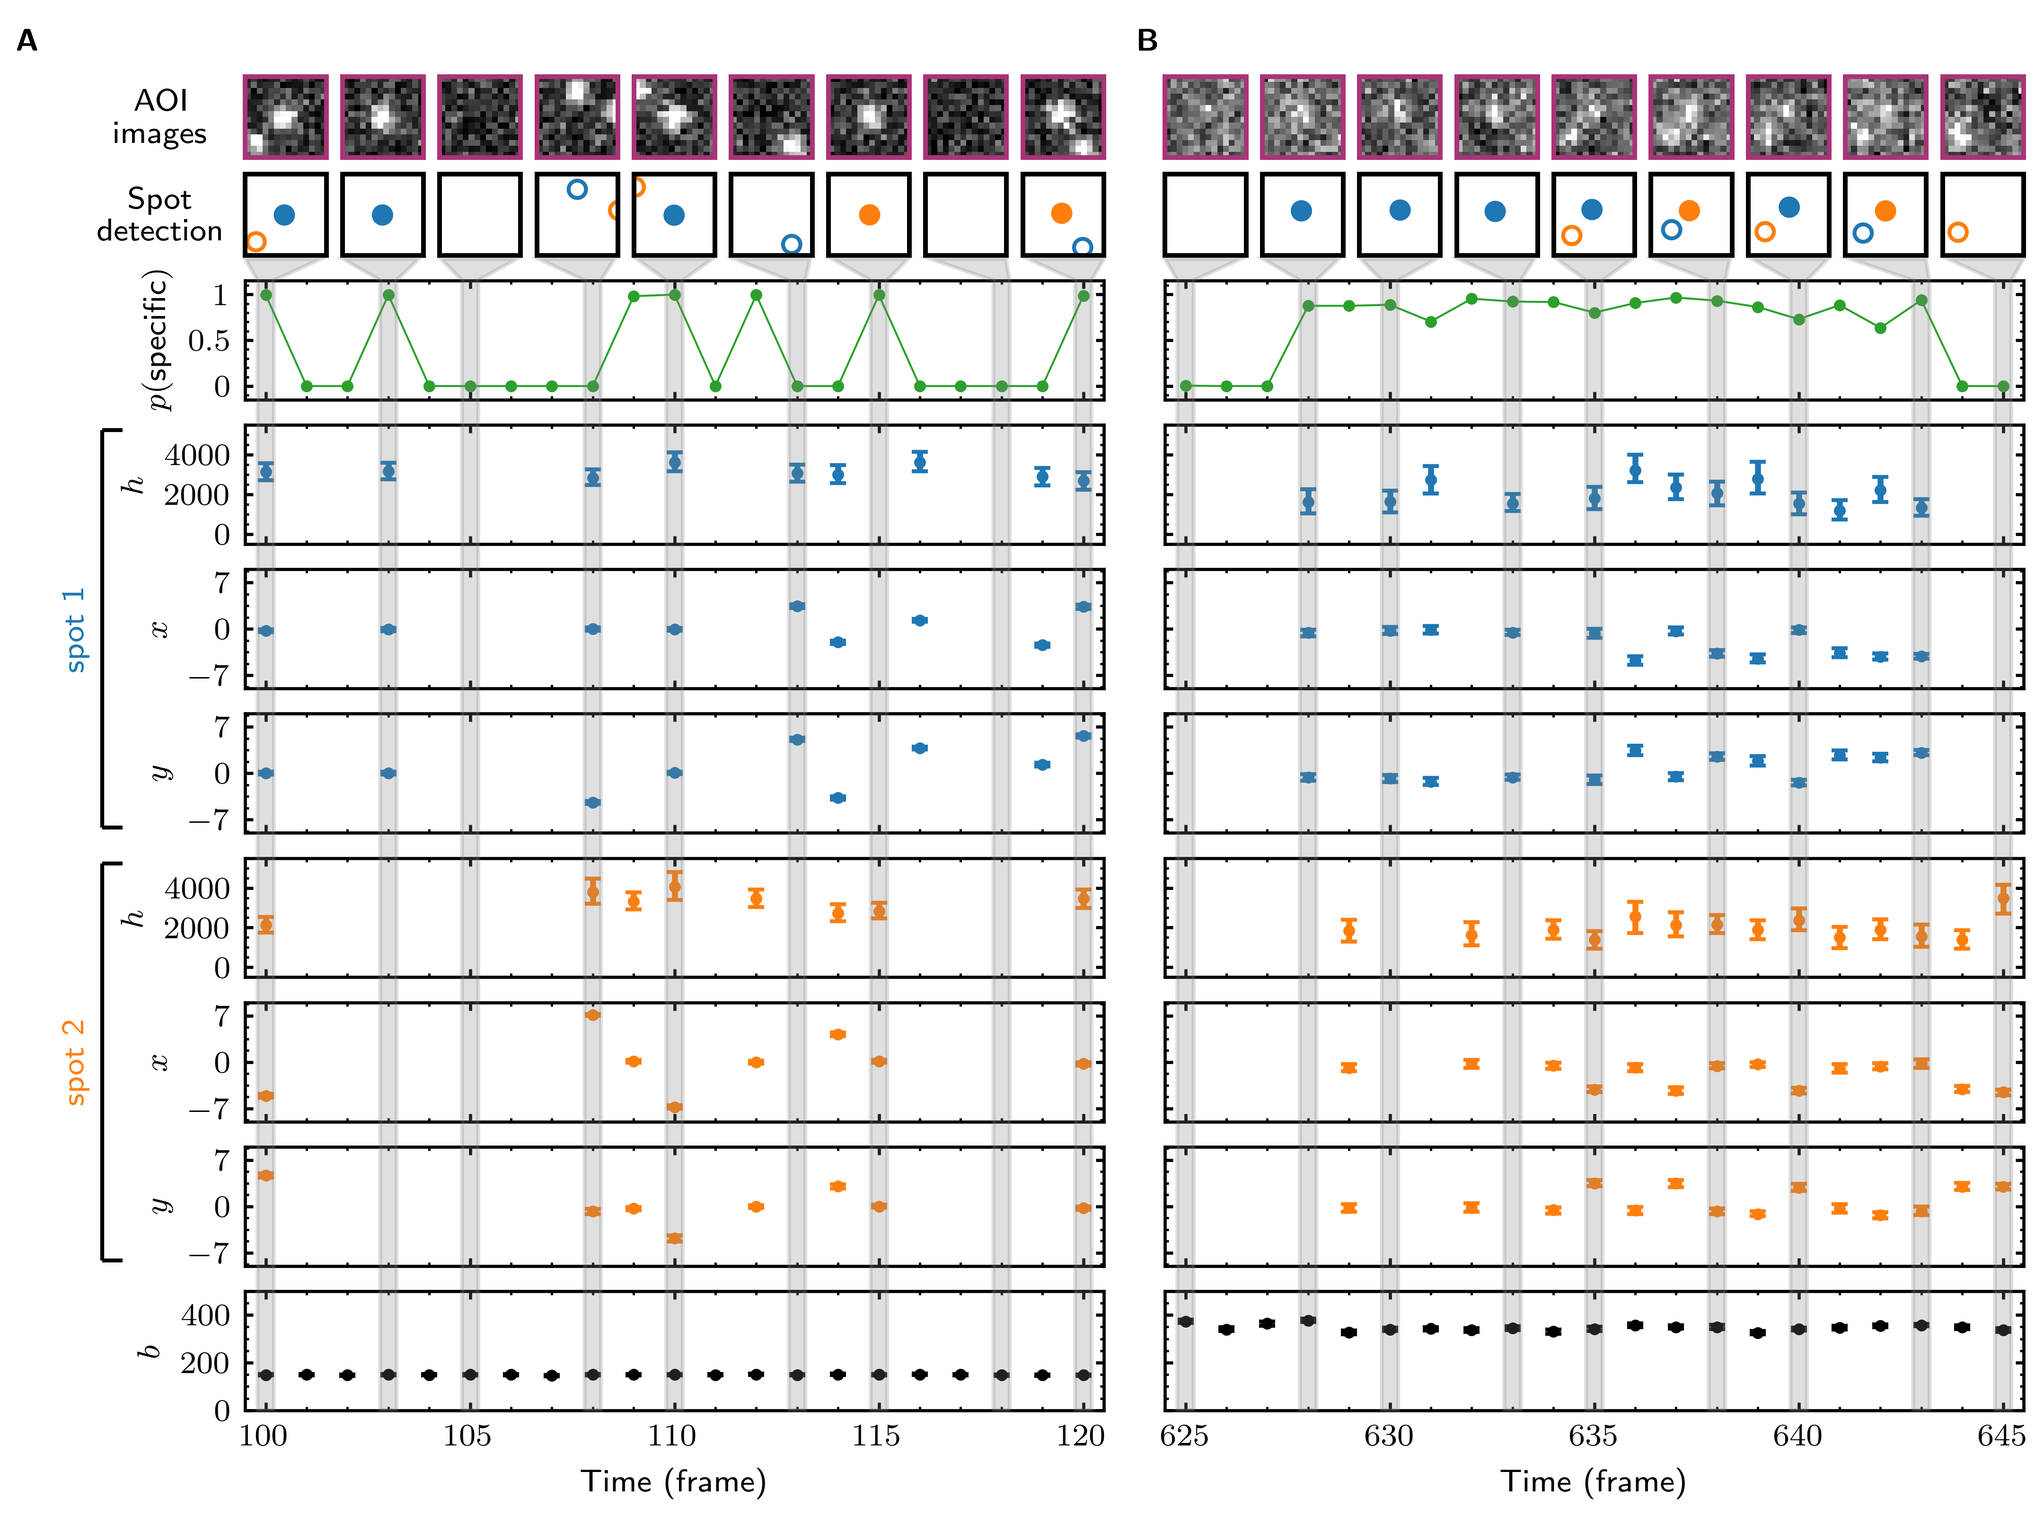
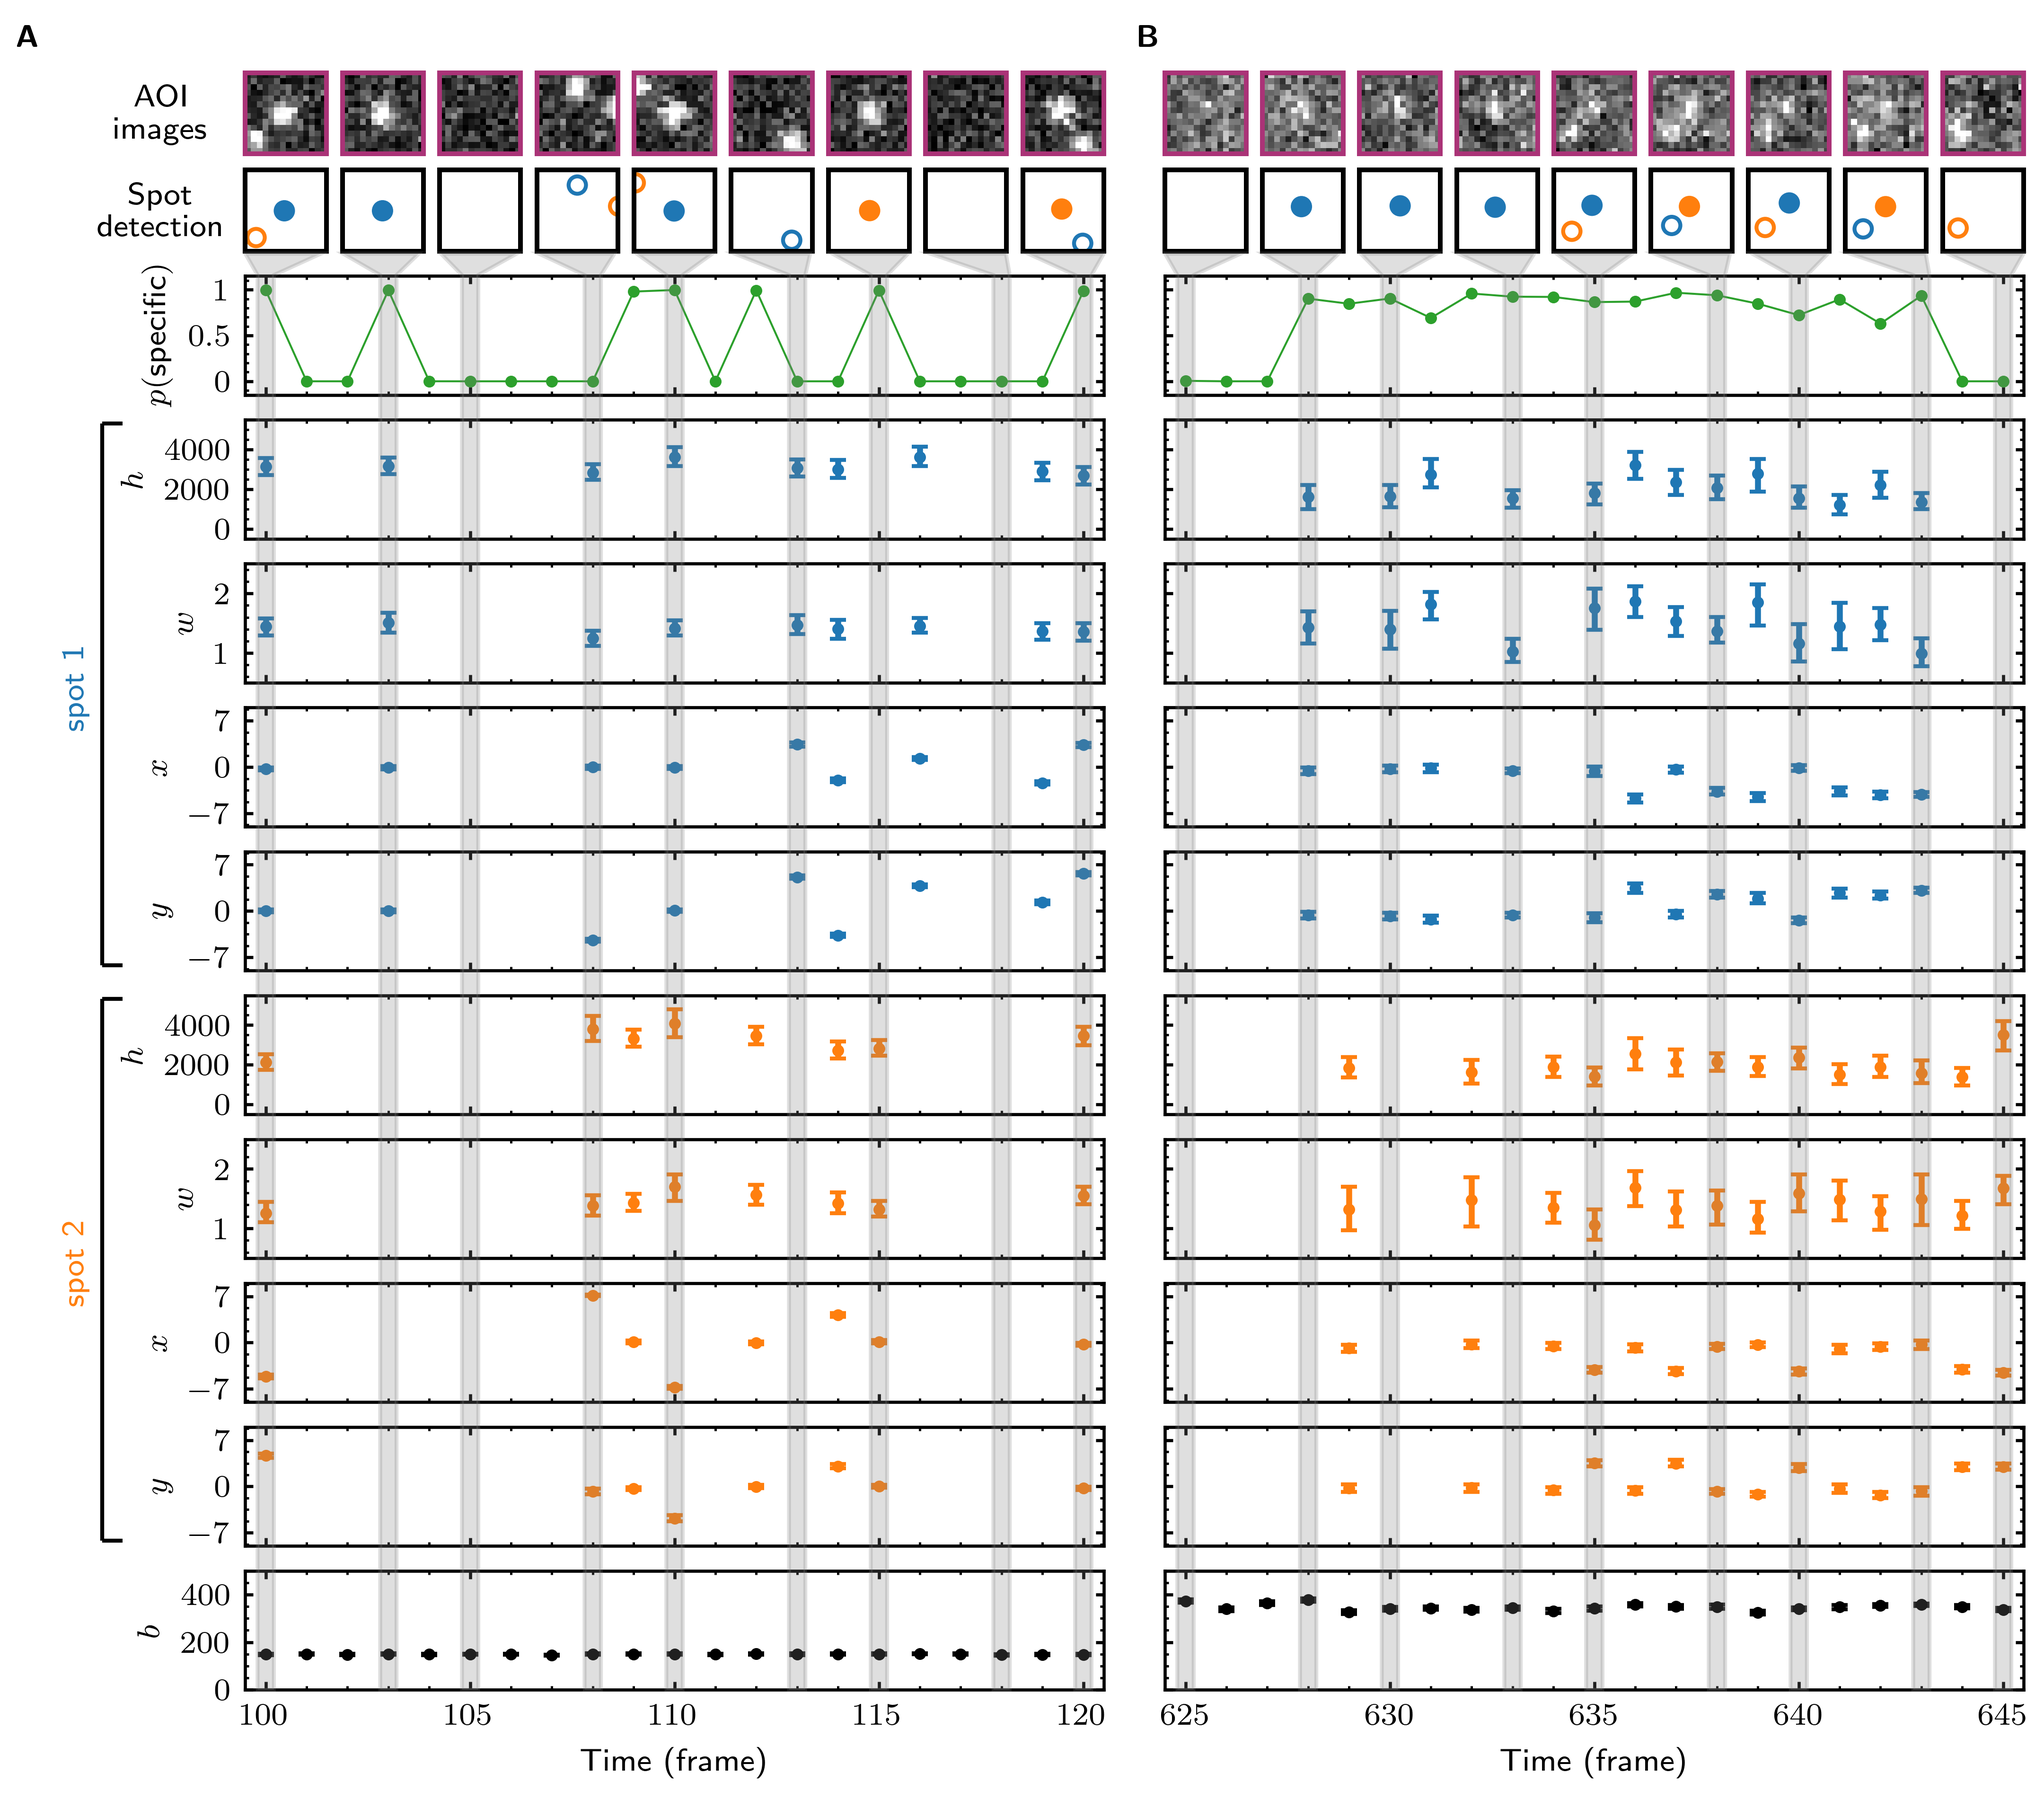
width

diff --git a/scripts/figures/tapqir_analysis.py b/scripts/figures/tapqir_analysis.py
@@ -9,7 +9,7 @@ from tapqir.models import Cosmos
 mpl.rc("text", usetex=True)
 mpl.rcParams.update({"font.size": 8})
 
-fig = plt.figure(figsize=(7.2, 5.4), constrained_layout=False)
+fig = plt.figure(figsize=(7.2, 6.4), constrained_layout=False)
 
 # panel a
 path_data = "simulations/lamda0.5"
@@ -21,13 +21,13 @@ frames = [100, 103, 105, 108, 110, 113, 115, 118, 120]
 f1, f2 = 100, 121
 vmin, vmax = model.data.vmin, model.data.vmax
 gs = fig.add_gridspec(
-    nrows=9,
+    nrows=11,
     ncols=1,
-    top=0.95,
-    bottom=0.08,
+    top=0.96,
+    bottom=0.07,
     left=0.12,
     right=0.54,
-    height_ratios=[1.5, 1.0, 1.0, 1.0, 1.0, 1.0, 1.0, 1.0, 1.0],
+    height_ratios=[1.5, 1, 1, 1, 1, 1, 1, 1, 1, 1, 1],
 )
 
 gs1 = gs[0].subgridspec(2, 9)
@@ -122,9 +122,9 @@ ax.set_xlim(f1 - 0.5, f2 - 0.5)
 ax.set_ylim(-0.15, 1.15)
 ax.set_ylabel(r"$p(\mathsf{specific})$")
 
-# height
 for k in range(2):
-    ax = fig.add_subplot(gs[2 + k * 3, :])
+    # height
+    ax = fig.add_subplot(gs[2 + k * 4, :])
     mask = model.params["m_probs"][k, n, f1:f2] > 0.5
     ax.errorbar(
         x=torch.arange(f1, f2)[mask],
@@ -169,8 +169,54 @@ for k in range(2):
     ax.set_ylim(-500, 5500)
     ax.set_ylabel(r"$h$")
 
+    # width
+    ax = fig.add_subplot(gs[3 + k * 4, :])
+    mask = model.params["m_probs"][k, n, f1:f2] > 0.5
+    ax.errorbar(
+        x=torch.arange(f1, f2)[mask],
+        y=model.params["width"]["Mean"][k, n, f1:f2][mask],
+        yerr=torch.stack(
+            (
+                model.params["width"]["Mean"][k, n, f1:f2][mask]
+                - model.params["width"]["LL"][k, n, f1:f2][mask],
+                model.params["width"]["UL"][k, n, f1:f2][mask]
+                - model.params["width"]["Mean"][k, n, f1:f2][mask],
+            ),
+            0,
+        ),
+        fmt="o",
+        ms=2,
+        color=f"C{k}",
+        capsize=2,
+    )
+    plt.minorticks_on()
+    ax.tick_params(
+        direction="in",
+        which="minor",
+        length=1,
+        bottom=True,
+        top=True,
+        left=True,
+        right=True,
+    )
+    ax.tick_params(
+        direction="in",
+        which="major",
+        length=2,
+        bottom=True,
+        top=True,
+        left=True,
+        right=True,
+    )
+    ax.set_xticks(torch.arange(f1, f2 + 1, 5))
+    ax.set_yticks([1, 2])
+    ax.set_xticklabels([])
+    ax.set_xlim(f1 - 0.5, f2 - 0.5)
+    ax.set_ylim(0.5, 2.5)
+    ax.set_ylabel(r"$w$")
+
     # x
-    ax = fig.add_subplot(gs[3 + k * 3, :])
+    ax = fig.add_subplot(gs[4 + k * 4, :])
     mask = model.params["m_probs"][k, n, f1:f2] > 0.5
     ax.errorbar(
         x=torch.arange(f1, f2)[mask],
@@ -217,7 +263,7 @@ for k in range(2):
     if k == 0:
         ax.text(
             f1 - 5,
-            0,
+            12,
             "spot 1",
             color="C0",
             rotation=90,
@@ -226,7 +272,7 @@ for k in range(2):
     elif k == 1:
         ax.text(
             f1 - 5,
-            0,
+            12,
             "spot 2",
             color="C1",
             rotation=90,
@@ -236,7 +282,7 @@ for k in range(2):
         f1 - 4,
         -30,
         0,
-        60,
+        82,
         length_includes_head=True,
         head_width=0.0,
         head_length=0.0,
@@ -245,7 +291,7 @@ for k in range(2):
     )
     ax.arrow(
         f1 - 4,
-        30,
+        52,
         0.5,
         0,
         length_includes_head=True,
@@ -267,7 +313,7 @@ for k in range(2):
     )
 
     # y
-    ax = fig.add_subplot(gs[4 + k * 3, :])
+    ax = fig.add_subplot(gs[5 + k * 4, :])
     mask = model.params["m_probs"][k, n, f1:f2] > 0.5
     ax.errorbar(
         x=torch.arange(f1, f2)[mask],
@@ -313,7 +359,7 @@ for k in range(2):
     ax.set_ylabel(r"$y$")
 
 # background
-ax = fig.add_subplot(gs[8, :])
+ax = fig.add_subplot(gs[10, :])
 ax.errorbar(
     x=torch.arange(f1, f2),
     y=model.params["background"]["Mean"][n, f1:f2],
@@ -366,10 +412,10 @@ for i, f in enumerate(frames):
             [
                 (f - 0.2, 0),
                 (f + 0.2, 0),
-                (f + 0.2, 9.48 * 500),
-                (f1 - 0.5 + 0.5 * x + (h + x) * i + x / 2, 9.66 * 500),
-                (f1 - 0.5 + 0.5 * x + (h + x) * i - x / 2, 9.66 * 500),
-                (f - 0.2, 9.48 * 500),
+                (f + 0.2, 11.89 * 500),
+                (f1 - 0.5 + 0.5 * x + (h + x) * i + x / 2, 12.07 * 500),
+                (f1 - 0.5 + 0.5 * x + (h + x) * i - x / 2, 12.07 * 500),
+                (f - 0.2, 11.89 * 500),
             ],
             clip_on=False,
             zorder=100,
@@ -389,14 +435,13 @@ frames = [625, 628, 630, 633, 635, 638, 640, 643, 645]
 vmin, vmax = 340, 635
 
 gs = fig.add_gridspec(
-    nrows=9,
+    nrows=11,
     ncols=1,
-    top=0.95,
-    bottom=0.08,
+    top=0.96,
+    bottom=0.07,
     left=0.57,
     right=0.99,
-    width_ratios=[9],
-    height_ratios=[1.5, 1.0, 1.0, 1.0, 1.0, 1.0, 1.0, 1.0, 1.0],
+    height_ratios=[1.5, 1, 1, 1, 1, 1, 1, 1, 1, 1, 1],
 )
 gs1 = gs[0].subgridspec(2, 9)
 
@@ -443,7 +488,7 @@ for i, f in enumerate(frames):
 ax = fig.add_subplot(gs[1, :])
 ax.plot(
     torch.arange(f1, f2),
-    model.params["p(specific)"][n, f1:f2],
+    model.params["z_probs"][n, f1:f2],
     "o-",
     ms=2,
     lw=0.5,
@@ -475,9 +520,9 @@ ax.set_yticklabels([])
 ax.set_xlim(f1 - 0.5, f2 - 0.5)
 ax.set_ylim(-0.15, 1.15)
 
-# height
 for k in range(2):
-    ax = fig.add_subplot(gs[2 + k * 3, :])
+    # height
+    ax = fig.add_subplot(gs[2 + k * 4, :])
     mask = model.params["m_probs"][k, n, f1:f2] > 0.5
     ax.errorbar(
         x=torch.arange(f1, f2)[mask],
@@ -522,8 +567,54 @@ for k in range(2):
     ax.set_xlim(f1 - 0.5, f2 - 0.5)
     ax.set_ylim(-500, 5500)
 
+    # width
+    ax = fig.add_subplot(gs[3 + k * 4, :])
+    mask = model.params["m_probs"][k, n, f1:f2] > 0.5
+    ax.errorbar(
+        x=torch.arange(f1, f2)[mask],
+        y=model.params["width"]["Mean"][k, n, f1:f2][mask],
+        yerr=torch.stack(
+            (
+                model.params["width"]["Mean"][k, n, f1:f2][mask]
+                - model.params["width"]["LL"][k, n, f1:f2][mask],
+                model.params["width"]["UL"][k, n, f1:f2][mask]
+                - model.params["width"]["Mean"][k, n, f1:f2][mask],
+            ),
+            0,
+        ),
+        fmt="o",
+        ms=2,
+        color=f"C{k}",
+        capsize=2,
+    )
+    plt.minorticks_on()
+    ax.tick_params(
+        direction="in",
+        which="minor",
+        length=1,
+        bottom=True,
+        top=True,
+        left=True,
+        right=True,
+    )
+    ax.tick_params(
+        direction="in",
+        which="major",
+        length=2,
+        bottom=True,
+        top=True,
+        left=True,
+        right=True,
+    )
+    ax.set_xticks(torch.arange(f1, f2 + 1, 5))
+    ax.set_yticks([1, 2])
+    ax.set_xticklabels([])
+    ax.set_yticklabels([])
+    ax.set_xlim(f1 - 0.5, f2 - 0.5)
+    ax.set_ylim(0.5, 2.5)
+
     # x
-    ax = fig.add_subplot(gs[3 + k * 3, :])
+    ax = fig.add_subplot(gs[4 + k * 4, :])
     mask = model.params["m_probs"][k, n, f1:f2] > 0.5
     ax.errorbar(
         x=torch.arange(f1, f2)[mask],
@@ -569,7 +660,7 @@ for k in range(2):
     ax.set_ylim(-9, 9)
 
     # y
-    ax = fig.add_subplot(gs[4 + k * 3, :])
+    ax = fig.add_subplot(gs[5 + k * 4, :])
     mask = model.params["m_probs"][k, n, f1:f2] > 0.5
     ax.errorbar(
         x=torch.arange(f1, f2)[mask],
@@ -615,7 +706,7 @@ for k in range(2):
     ax.set_ylim(-9, 9)
 
 # background
-ax = fig.add_subplot(gs[8, :])
+ax = fig.add_subplot(gs[10, :])
 ax.errorbar(
     x=torch.arange(f1, f2),
     y=model.params["background"]["Mean"][n, f1:f2],
@@ -668,10 +759,10 @@ for i, f in enumerate(frames):
             [
                 (f - 0.2, 0),
                 (f + 0.2, 0),
-                (f + 0.2, 9.48 * 500),
-                (f1 - 0.5 + 0.5 * x + (h + x) * i + x / 2, 9.66 * 500),
-                (f1 - 0.5 + 0.5 * x + (h + x) * i - x / 2, 9.66 * 500),
-                (f - 0.2, 9.48 * 500),
+                (f + 0.2, 11.89 * 500),
+                (f1 - 0.5 + 0.5 * x + (h + x) * i + x / 2, 12.07 * 500),
+                (f1 - 0.5 + 0.5 * x + (h + x) * i - x / 2, 12.07 * 500),
+                (f - 0.2, 11.89 * 500),
             ],
             clip_on=False,
             zorder=100,
